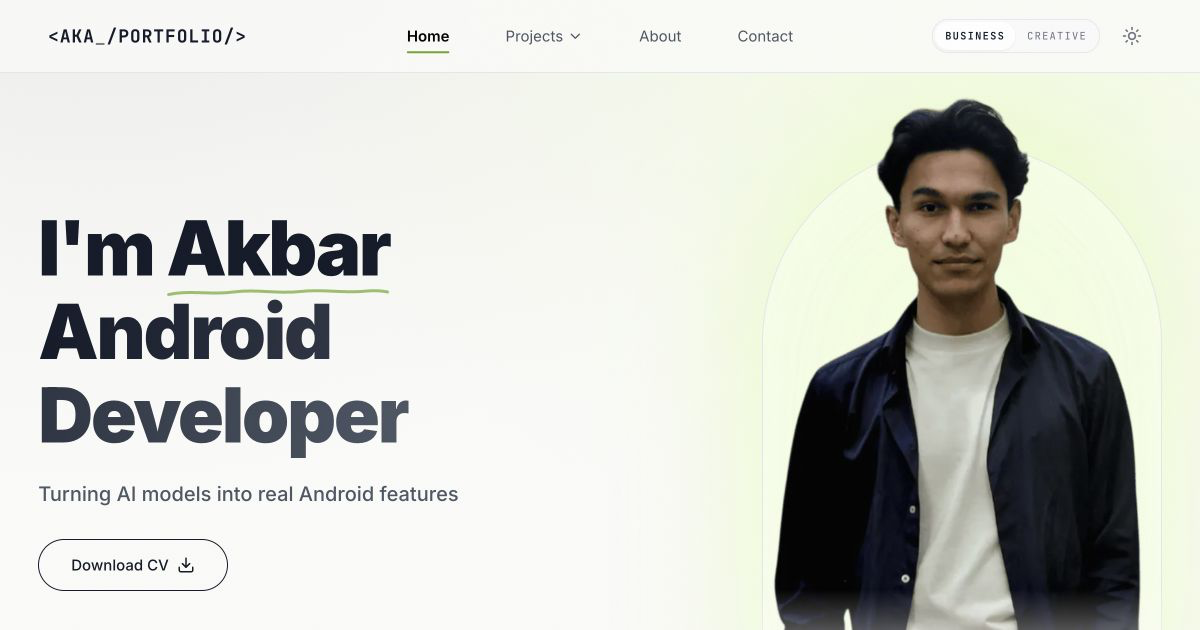
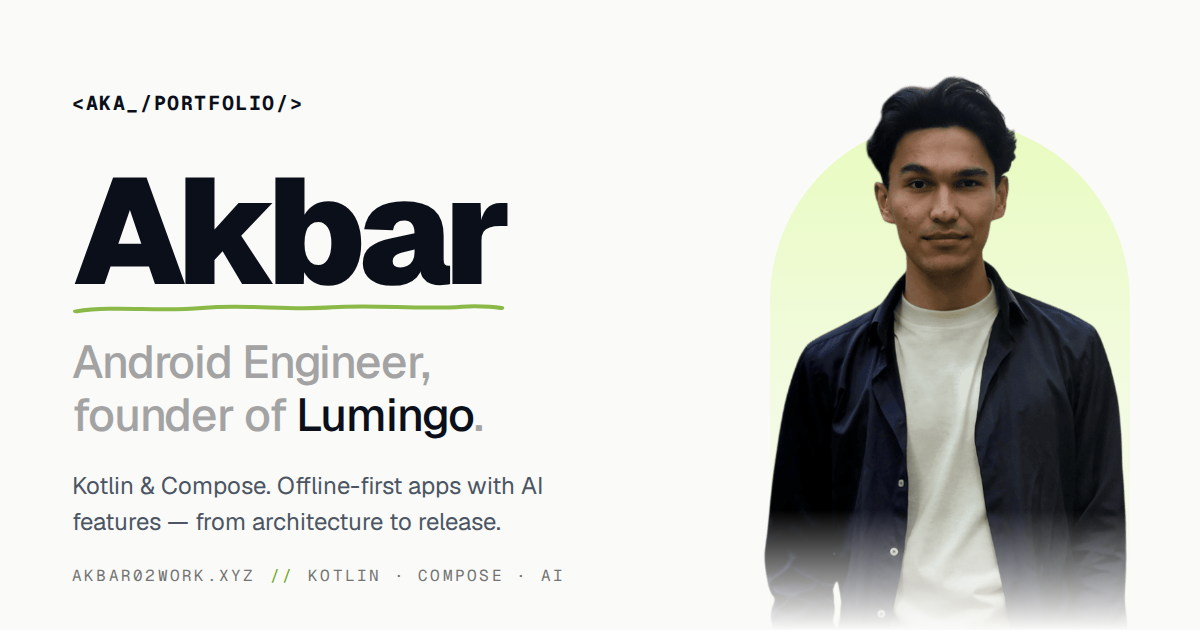
Case architecture diagram, new social previews, local-only Business build
- VoiceNotes case: responsive processing diagram (capture → router →
  cloud providers or on-device sherpa-onnx → structured note → Room),
  horizontal on desktop and stacked on mobile, localized EN/RU
- New Open Graph images matching the current hero and Geist typography,
  with a separate Russian card used on /ru pages
- `npm run build` now builds Business with the committed Creative embed
  (Windows builds no longer rewrite public/creative); `build:all` rebuilds
  Creative first. CI's drift check still guards the embed
- VoiceNotes metrics: TODO notes with suggested measured metrics and how
  to measure them (EN + RU); visible metrics unchanged for now

Claude-Session: https://claude.ai/code/session_01FBjaQdWwF7YUwNywuB12MD

diff --git a/src/components/project/ProjectArchitecture.tsx b/src/components/project/ProjectArchitecture.tsx
@@ -1,0 +1,67 @@
+import { ArrowDown, ArrowRight } from "lucide-react";
+import { Fragment } from "react";
+import { architectureBySlug, type ArchitectureNode } from "@/data/architecture";
+import { useI18n } from "@/i18n/useI18n";
+
+const Node = ({ node, accent = false }: { node: ArchitectureNode; accent?: boolean }) => (
+  <div
+    className={`rounded-xl border bg-background px-4 py-3.5 ${
+      accent ? "border-volt-ink/40 dark:border-volt/40" : "border-neutral-200 dark:border-neutral-800"
+    }`}
+  >
+    <p className="font-mono text-[0.625rem] uppercase tracking-[0.16em] text-volt-ink dark:text-volt">{node.step}</p>
+    <p className="mt-1.5 text-[0.9375rem] font-semibold leading-snug text-gray-900 dark:text-white">{node.title}</p>
+    <p className="mt-1 text-body-sm leading-snug text-gray-500 dark:text-slate-400">{node.detail}</p>
+  </div>
+);
+
+/** Arrow between stages: horizontal on desktop, vertical on mobile. */
+const Connector = () => (
+  <div aria-hidden="true" className="flex items-center justify-center text-neutral-400 dark:text-neutral-600">
+    <ArrowDown className="h-4 w-4 lg:hidden" strokeWidth={1.75} />
+    <ArrowRight className="hidden h-4 w-4 lg:block" strokeWidth={1.75} />
+  </div>
+);
+
+type ProjectArchitectureProps = {
+  slug: string;
+};
+
+export const ProjectArchitecture = ({ slug }: ProjectArchitectureProps) => {
+  const { locale } = useI18n();
+  const diagram = architectureBySlug[slug]?.[locale];
+  if (!diagram) return null;
+
+  const stages = [...diagram.before.map((node) => ({ kind: "node" as const, node })), { kind: "fork" as const }, ...diagram.after.map((node) => ({ kind: "node" as const, node }))];
+
+  return (
+    <figure aria-label={diagram.label} className="mb-10 md:mb-12">
+      <div className="flex flex-col gap-2 lg:flex-row lg:items-stretch lg:gap-3">
+        {stages.map((stage, index) => (
+          <Fragment key={index}>
+            {index > 0 && <Connector />}
+            {stage.kind === "node" ? (
+              <div className="lg:flex-1 lg:self-center">
+                <Node node={stage.node} />
+              </div>
+            ) : (
+              <div className="flex flex-col gap-2 lg:flex-[1.15]">
+                {diagram.branches.map((branch, branchIndex) => (
+                  <Fragment key={branch.step}>
+                    {branchIndex > 0 && (
+                      <p className="text-center font-mono text-[0.625rem] uppercase tracking-[0.16em] text-neutral-400 dark:text-neutral-500">
+                        {diagram.branchJoiner}
+                      </p>
+                    )}
+                    <Node node={branch} accent />
+                  </Fragment>
+                ))}
+              </div>
+            )}
+          </Fragment>
+        ))}
+      </div>
+      <figcaption className="sr-only">{diagram.label}</figcaption>
+    </figure>
+  );
+};

diff --git a/src/data/architecture.ts b/src/data/architecture.ts
@@ -1,0 +1,57 @@
+import type { Locale } from "@/i18n/locales";
+
+export type ArchitectureNode = {
+  /** Mono caption, e.g. "01 · Capture". */
+  step: string;
+  title: string;
+  detail: string;
+};
+
+export type ArchitectureDiagram = {
+  label: string;
+  /** Linear stages before the fork. */
+  before: ArchitectureNode[];
+  /** Alternative strategies chosen per note. */
+  branches: ArchitectureNode[];
+  branchJoiner: string;
+  /** Linear stages after the fork. */
+  after: ArchitectureNode[];
+};
+
+/** Processing diagrams per project slug; only cases with a diagram appear here. */
+export const architectureBySlug: Record<string, Record<Locale, ArchitectureDiagram>> = {
+  voicenotes: {
+    en: {
+      label: "VoiceNotes processing architecture",
+      before: [
+        { step: "01 · Capture", title: "Recording", detail: "AAC in app-private storage" },
+        { step: "02 · Route", title: "Processing router", detail: "Picks a strategy per note" },
+      ],
+      branches: [
+        { step: "Cloud", title: "Gemini · OpenAI · Groq", detail: "User's own key, encrypted on device" },
+        { step: "On-device", title: "sherpa-onnx Zipformer", detail: "Russian ASR, checksum-verified model" },
+      ],
+      branchJoiner: "or",
+      after: [
+        { step: "03 · Structure", title: "Structured note", detail: "Title, summary, full transcript" },
+        { step: "04 · Store", title: "Room library", detail: "Searchable, pinned, original audio" },
+      ],
+    },
+    ru: {
+      label: "Архитектура обработки VoiceNotes",
+      before: [
+        { step: "01 · Запись", title: "Запись", detail: "AAC в приватной папке приложения" },
+        { step: "02 · Маршрут", title: "Роутер обработки", detail: "Выбирает стратегию для заметки" },
+      ],
+      branches: [
+        { step: "Облако", title: "Gemini · OpenAI · Groq", detail: "Ключ пользователя, зашифрован на устройстве" },
+        { step: "На устройстве", title: "sherpa-onnx Zipformer", detail: "Русская речь, модель с проверкой контрольной суммы" },
+      ],
+      branchJoiner: "или",
+      after: [
+        { step: "03 · Структура", title: "Заметка", detail: "Заголовок, саммари, полная расшифровка" },
+        { step: "04 · Хранение", title: "Библиотека Room", detail: "Поиск, закрепление, исходное аудио" },
+      ],
+    },
+  },
+};

diff --git a/vite.config.ts b/vite.config.ts
@@ -6,7 +6,7 @@ import { execSync } from "node:child_process";
 import { existsSync, readFileSync } from "node:fs";
 import { publicProjectsCatalogByLocale } from "./src/data/projectCatalog";
 import { SITE_URL } from "./src/data/siteMetadata";
-import { HTML_LANG, LOCALES, OG_LOCALE, localizePath, type Locale } from "./src/i18n/locales";
+import { HTML_LANG, LOCALES, OG_IMAGE, OG_LOCALE, localizePath, type Locale } from "./src/i18n/locales";
 import { messages } from "./src/i18n/messages";
 import { HERO_PORTRAIT_SIZES, heroPortraitSrcSet } from "./src/data/heroPortrait";
 import { prerenderRoutes, type PrerenderRoute } from "./scripts/prerender";
@@ -30,14 +30,14 @@ const publicRoutes: PrerenderRoute[] = LOCALES.flatMap((locale): PrerenderRoute[
     ...localeRouteFields(locale, "/"),
     title: messages[locale].seo.homeTitle,
     description: messages[locale].seo.homeDescription,
-    image: "/og-image.png",
+    image: OG_IMAGE[locale],
   },
   ...publicProjectsCatalogByLocale[locale].map(
     (project): PrerenderRoute => ({
       ...localeRouteFields(locale, `/projects/${project.slug}`),
       title: messages[locale].seo.projectTitle(project.title),
       description: project.description,
-      image: project.coverImage || "/og-image.png",
+      image: project.coverImage || OG_IMAGE[locale],
     })
   ),
 ]);

diff --git a/src/data/projectCatalog.ts b/src/data/projectCatalog.ts
@@ -104,6 +104,18 @@ const projectDefinitions = [
       "Native Android voice notes that turn short recordings into searchable notes — cloud AI when useful, private on-device transcription when it matters.",
     role: "Product design & Android engineering — solo build",
     year: 2026,
+    // TODO(Akbar): replace with measured numbers when you have them (keep 3 items).
+    // Suggested metrics — measure, then swap the values in and delete this note:
+    //   { value: "~X s", label: "to transcribe 30 s of speech on-device" }
+    //     Local mode, airplane mode on, record a 30 s clip, time from "stop" to the
+    //     transcript appearing; average 3 runs, note the phone model.
+    //   { value: "X MB", label: "offline Russian ASR model, downloaded once" }
+    //     Size of the model the app downloads (Settings → offline model, or the
+    //     files in the app's private storage).
+    //   { value: "X MB", label: "release APK" }
+    //     ./gradlew assembleRelease → app/build/outputs/apk/release/*.apk size
+    //     (or the download size shown in Play Console for an AAB).
+    // Russian labels live in src/data/i18n/projects.ru.ts (same order).
     metrics: [
       { value: "4 modes", label: "cloud + local processing" },
       { value: "BYOK", label: "encrypted on-device keys" },

diff --git a/tests/e2e/i18n.spec.ts b/tests/e2e/i18n.spec.ts
@@ -20,6 +20,9 @@ test("serves prerendered Russian routes with language metadata", async ({ reques
 
   const english = await (await request.get("/")).text();
   expect(english).toContain('<html lang="en">');
+  expect(english).toContain(`og:image" content="${SITE_URL}/og-image.png"`);
+  expect(await (await request.get("/ru")).text()).toContain(`og:image" content="${SITE_URL}/og-image-ru.png"`);
+  expect((await request.get("/og-image-ru.png")).status()).toBe(200);
   expect(english).toContain(`hreflang="ru" href="${SITE_URL}/ru"`);
 
   expect((await request.get("/ru/missing")).status()).toBe(404);
@@ -44,6 +47,7 @@ test("renders the Russian site and keeps navigation inside the locale", async ({
   await expect(page).toHaveURL(/\/ru\/projects\/voicenotes/);
   await expect(page.getByRole("heading", { level: 2, name: ru.project.overview })).toBeVisible();
   await expect(page.getByText("Задача была не просто вызвать AI API", { exact: false })).toBeVisible();
+  await expect(page.getByRole("figure", { name: "Архитектура обработки VoiceNotes" })).toBeVisible();
 
   await page.getByRole("link", { name: ru.project.back, exact: true }).click();
   await expect(page).toHaveURL(/\/ru$/);

diff --git a/src/components/PageSeo.tsx b/src/components/PageSeo.tsx
@@ -2,7 +2,7 @@ import { Helmet } from "react-helmet-async";
 import { useLocation } from "react-router-dom";
 import { SITE_URL } from "@/data/siteMetadata";
 import { useI18n } from "@/i18n/useI18n";
-import { HTML_LANG, LOCALES, OG_LOCALE, localizePath } from "@/i18n/locales";
+import { HTML_LANG, LOCALES, OG_IMAGE, OG_LOCALE, localizePath } from "@/i18n/locales";
 import { withBase } from "@/lib/urls";
 
 type PageSeoProps = {
@@ -14,13 +14,13 @@ type PageSeoProps = {
 
 const absoluteUrl = (path: string) => new URL(withBase(path), SITE_URL).href;
 
-export const PageSeo = ({ title, description, image = "/og-image.png", noIndex = false }: PageSeoProps) => {
+export const PageSeo = ({ title, description, image, noIndex = false }: PageSeoProps) => {
   const { pathname } = useLocation();
   const { locale, t } = useI18n();
   const pageTitle = title ?? t.seo.homeTitle;
   const pageDescription = description ?? t.seo.homeDescription;
   const canonicalUrl = absoluteUrl(pathname);
-  const imageUrl = absoluteUrl(image);
+  const imageUrl = absoluteUrl(image ?? OG_IMAGE[locale]);
 
   return (
     <Helmet htmlAttributes={{ lang: HTML_LANG[locale] }}>

diff --git a/src/data/i18n/projects.ru.ts b/src/data/i18n/projects.ru.ts
@@ -9,6 +9,10 @@ export const projectTranslationsRu: Record<string, ProjectTranslation> = {
     description:
       "Нативное Android-приложение для голосовых заметок: короткие записи превращаются в заметки с поиском — облачный AI, когда он полезен, и приватная расшифровка на устройстве, когда это важно.",
     role: "Продуктовый дизайн и Android-разработка — в одиночку",
+    // TODO(Akbar): when the English metrics get measured values, mirror them here:
+    //   { value: "~X с", label: "на расшифровку 30 с речи на устройстве" }
+    //   { value: "X МБ", label: "офлайн-модель русской речи, скачивается один раз" }
+    //   { value: "X МБ", label: "релизный APK" }
     metrics: [
       { value: "4 режима", label: "облачная + локальная обработка" },
       { value: "BYOK", label: "зашифрованные ключи на устройстве" },

diff --git a/src/components/project/ProjectEngineeringNote.tsx b/src/components/project/ProjectEngineeringNote.tsx
@@ -1,4 +1,5 @@
 import type { Project } from "@/data/projects";
+import { ProjectArchitecture } from "@/components/project/ProjectArchitecture";
 import { useI18n } from "@/i18n/useI18n";
 
 type ProjectEngineeringNoteProps = {
@@ -23,6 +24,8 @@ export const ProjectEngineeringNote = ({ project }: ProjectEngineeringNoteProps)
                         {t.project.engineeringNote}
                     </h2>
                 </div>
+
+                <ProjectArchitecture slug={project.slug} />
 
                 <aside className="max-w-3xl">
                     {role ? (

diff --git a/src/i18n/locales.ts b/src/i18n/locales.ts
@@ -39,3 +39,6 @@ export const localizePath = (path: string, locale: Locale): string => {
 export const HTML_LANG: Record<Locale, string> = { en: "en", ru: "ru" };
 
 export const OG_LOCALE: Record<Locale, string> = { en: "en_US", ru: "ru_RU" };
+
+/** Default social preview image per language. */
+export const OG_IMAGE: Record<Locale, string> = { en: "/og-image.png", ru: "/og-image-ru.png" };

diff --git a/src/pages/ProjectDetail.tsx b/src/pages/ProjectDetail.tsx
@@ -56,7 +56,7 @@ const ProjectDetail = () => {
   const pageImage =
     projectView && !hasPlaceholderContent && projectView.image
       ? projectView.image
-      : "/og-image.png";
+      : undefined;
   const selectPlatform = (platform: ProjectPlatformId) => {
     const nextParams = new URLSearchParams(searchParams);
     nextParams.set("platform", platform);

diff --git a/scripts/optimize-images.ts b/scripts/optimize-images.ts
@@ -11,6 +11,7 @@ const excludedFileNames = new Set([
   "favicon-16x16.png",
   "favicon-32x32.png",
   "og-image.png",
+  "og-image-ru.png",
   "android-phone-frame.png",
 ]);
 

diff --git a/README.md b/README.md
@@ -113,8 +113,13 @@ npm run dev:pair
 stopping its owner. `npm run dev:pair:stop` stops only this checkout's supervisor
 and its children.
 
+`npm run build` builds Business with the committed Creative embed, so local builds
+(including on Windows, where Creative's bundle hashes differ) leave `public/creative/`
+untouched. `npm run build:all` rebuilds Creative first.
+
 After changing Creative source or project publication, run `npm run build:creative`
-and include the resulting `public/creative/` output with the source change.
+on Linux/macOS (or let CI's drift check tell you) and include the resulting
+`public/creative/` output with the source change.
 `npm run check:creative-drift` rebuilds Creative and compares files byte for byte;
 it never refreshes the embed during the check.
 
